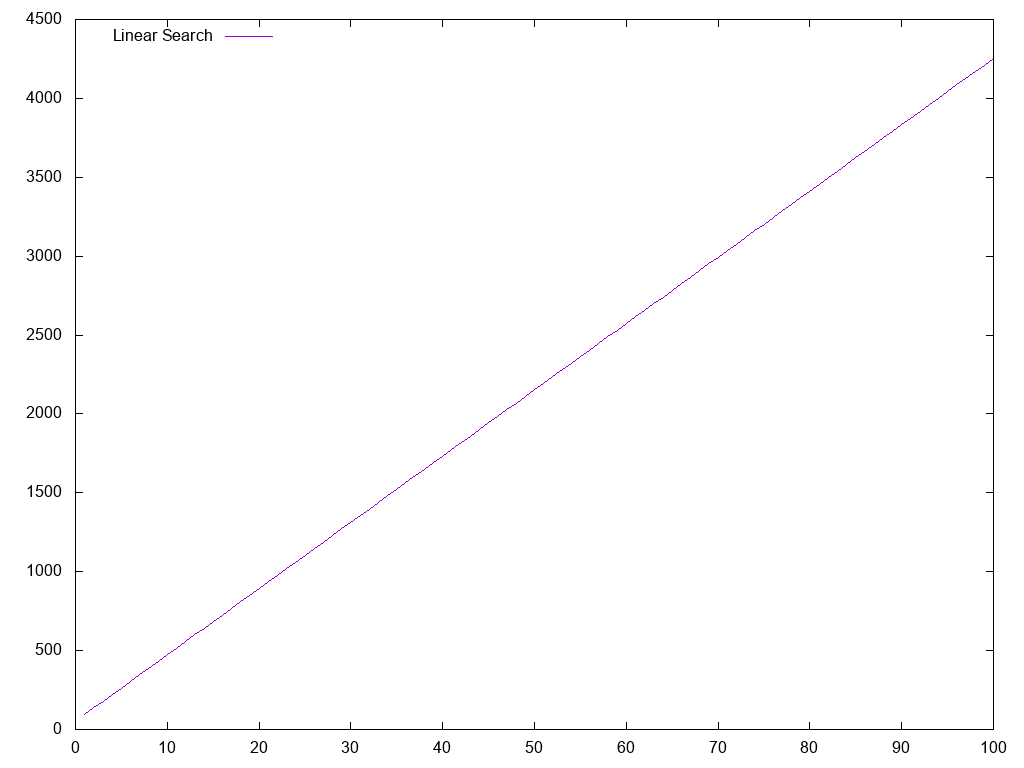
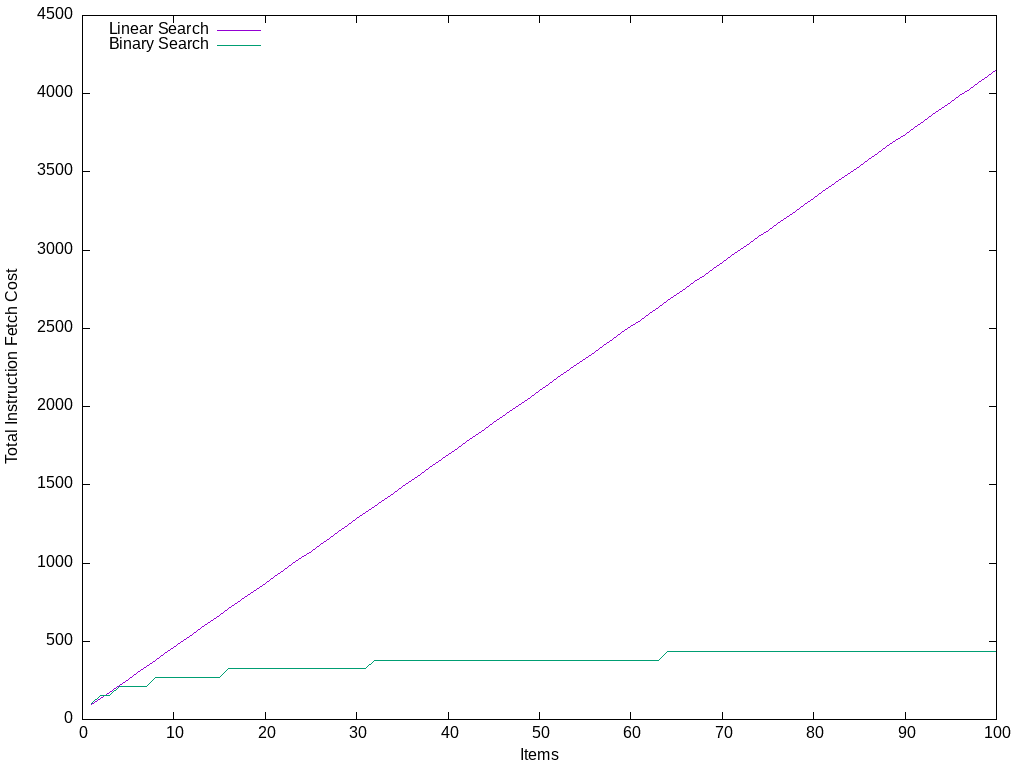
Implement binary search

diff --git a/src/test/unit/binary-search-test.c b/src/test/unit/binary-search-test.c
@@ -1,0 +1,124 @@
+#include "greatest.h"
+
+#include "binary-search.h"
+
+static const int    items[]         = { 0, 1, 2, 3, 4, 5, 6, 7, 8, 9 };
+static const size_t number_of_items = 10;
+static const size_t item_size       = sizeof(int);
+static const int    item_to_found   = 3;
+
+ordering int_compare(const void *a, const void *b) {
+    const int *a_as_int = (const int *)a;
+    const int *b_as_int = (const int *)b;
+
+    if (*a_as_int == *b_as_int) {
+        return EQ;
+    }
+
+    if (*a_as_int > *b_as_int) {
+        return GT;
+    }
+
+    return LT;
+}
+
+TEST binary_search__if_compare_is_null__returns_error(void) {
+    size_t index_of_found_item;
+
+    status status = binary_search(NULL, items, number_of_items, 0, &item_to_found, &index_of_found_item);
+
+    ASSERT_EQ(COMPARE_IS_NULL, status);
+    PASS();
+}
+
+TEST binary_search__if_items_is_null__returns_error(void) {
+    size_t index_of_found_item;
+
+    status status = binary_search(&int_compare, NULL, number_of_items, item_size, &item_to_found, &index_of_found_item);
+
+    ASSERT_EQ(ITEM_IS_NULL, status);
+    PASS();
+}
+
+TEST binary_search__if_item_size_is_zero__returns_error(void) {
+    size_t index_of_found_item;
+
+    status status = binary_search(&int_compare, items, number_of_items, 0, &item_to_found, &index_of_found_item);
+
+    ASSERT_EQ(ITEM_SIZE_IS_INVALID, status);
+    PASS();
+}
+
+TEST binary_search__if_item_to_found_is_null__returns_error(void) {
+    size_t index_of_found_item;
+
+    status status = binary_search(&int_compare, items, number_of_items, item_size, NULL, &index_of_found_item);
+
+    ASSERT_EQ(ITEM_TO_FOUND_IS_NULL, status);
+    PASS();
+}
+
+TEST binary_search__if_index_of_found_item_is_null__returns_error(void) {
+    int items[] = { 0, 1, 2, 3, 4, 5, 6, 7, 8, 9};
+    size_t number_of_items = 10;
+    size_t item_size = sizeof(int);
+    int item_to_found = 3;
+
+    status status = binary_search(&int_compare, items, number_of_items, item_size, &item_to_found, NULL);
+
+    ASSERT_EQ(INDEX_OF_FOUND_ITEM_IS_NULL, status);
+    PASS();
+}
+
+TEST binary_search__if_number_of_items_is_zero__returns_error(void) {
+    size_t index_of_found_item;
+
+    status status = binary_search(&int_compare, items, 0, item_size, &item_to_found, &index_of_found_item);
+
+    ASSERT_EQ(ITEM_NOT_FOUND, status);
+    PASS();
+}
+
+TEST binary_search__if_item_found__returns_index_of_found_item(void) {
+    for (int i = 0; i < number_of_items; i++) {
+        size_t index_of_found_item;
+
+        status status = binary_search(&int_compare, items, number_of_items, item_size, &items[i], &index_of_found_item);
+
+        ASSERT_EQ(SUCCESS, status);
+        ASSERT_EQ(i, index_of_found_item);
+    }
+
+    PASS();
+}
+
+TEST binary_search__if_item_not_found__returns_error(void) {
+    int item_to_found = -1;
+    size_t index_of_found_item;
+
+    status status = binary_search(&int_compare, items, number_of_items, item_size, &item_to_found, &index_of_found_item);
+
+    ASSERT_EQ(ITEM_NOT_FOUND, status);
+    PASS();
+}
+
+SUITE(binary_search_suite) {
+    RUN_TEST(binary_search__if_compare_is_null__returns_error);
+    RUN_TEST(binary_search__if_items_is_null__returns_error);
+    RUN_TEST(binary_search__if_item_size_is_zero__returns_error);
+    RUN_TEST(binary_search__if_item_to_found_is_null__returns_error);
+    RUN_TEST(binary_search__if_index_of_found_item_is_null__returns_error);
+    RUN_TEST(binary_search__if_number_of_items_is_zero__returns_error);
+    RUN_TEST(binary_search__if_item_found__returns_index_of_found_item);
+    RUN_TEST(binary_search__if_item_not_found__returns_error);
+}
+
+GREATEST_MAIN_DEFS();
+
+int main(int argc, char **argv) {
+    GREATEST_MAIN_BEGIN();
+
+    RUN_SUITE(binary_search_suite);
+
+    GREATEST_MAIN_END();
+}

diff --git a/src/main/binary-search.c b/src/main/binary-search.c
@@ -1,0 +1,66 @@
+#include "binary-search.h"
+
+#include <stddef.h>
+#include <stdint.h>
+#include <stdbool.h>
+
+#include <stdio.h>
+
+status binary_search(const ordering_compare compare, const void *items, const size_t number_of_items, const size_t item_size, const void *item_to_found, size_t *index_of_found_item) {
+    if (compare == NULL) {
+        return COMPARE_IS_NULL;
+    }
+
+    if (items == NULL) {
+        return ITEM_IS_NULL;
+    }
+
+    if (item_size == 0) {
+        return ITEM_SIZE_IS_INVALID;
+    }
+
+    if (item_to_found == NULL) {
+        return ITEM_TO_FOUND_IS_NULL;
+    }
+
+    if (index_of_found_item == NULL) {
+        return INDEX_OF_FOUND_ITEM_IS_NULL;
+    }
+
+    if (number_of_items == 0) {
+        return ITEM_NOT_FOUND;
+    }
+
+    const uint8_t *items_as_bytes = (const uint8_t *)items;
+
+    size_t index_of_first_item = 0;
+    size_t index_of_last_item  = number_of_items - 1;
+
+    while (true) {
+        const size_t index_of_middle_item = index_of_first_item + ((index_of_last_item - index_of_first_item) / 2);
+
+        const void *middle_item = items_as_bytes + item_size * index_of_middle_item;
+
+        const ordering ordering = compare(middle_item, item_to_found);
+
+        if (ordering == EQ) {
+            *index_of_found_item = index_of_middle_item;
+
+            return SUCCESS;
+        }
+
+        if (index_of_first_item == index_of_last_item) {
+            break;
+        }
+
+        if (ordering == GT) {
+            index_of_last_item  = index_of_middle_item - 1;
+        }
+
+        if (ordering == LT) {
+            index_of_first_item = index_of_middle_item + 1;
+        }
+    }
+
+    return ITEM_NOT_FOUND;
+}

diff --git a/src/test/perf/binary-search-test.c b/src/test/perf/binary-search-test.c
@@ -1,0 +1,43 @@
+#include <stdlib.h>
+#include <stdio.h>
+#include <valgrind/callgrind.h>
+
+#include "binary-search.h"
+
+ordering long_int_compare(const void *a, const void *b) {
+    const long int *a_as_long_int = (const long int *)a;
+    const long int *b_as_long_int = (const long int *)b;
+
+    if (*a_as_long_int == *b_as_long_int) {
+        return EQ;
+    }
+
+    if (*a_as_long_int > *b_as_long_int) {
+        return GT;
+    }
+
+    return LT;
+}
+
+int main(int argc, char **argv) {
+    long int number_of_items = strtol(argv[1], NULL, 10);
+    size_t item_size = sizeof(long int);
+    long int *items = malloc(item_size * number_of_items);
+
+    for (long int i = 0; i < number_of_items; i++) {
+        items[i] = i;
+    }
+
+    long int item_to_found = number_of_items - 1;
+    size_t index_of_found_item;
+
+    CALLGRIND_START_INSTRUMENTATION;
+    CALLGRIND_TOGGLE_COLLECT;
+
+    status status = binary_search(&long_int_compare, items, number_of_items, item_size, &item_to_found, &index_of_found_item);
+
+    CALLGRIND_TOGGLE_COLLECT;
+    CALLGRIND_STOP_INSTRUMENTATION;
+
+    free(items);
+}

diff --git a/src/main/binary-search.h b/src/main/binary-search.h
@@ -1,0 +1,19 @@
+#ifndef _BINARY_SEARCH_
+#define _BINARY_SEARCH_
+
+#include <stdlib.h>
+
+#include "ordering.h"
+#include "status.h"
+
+#define COMPARE_IS_NULL             (ERROR | 0x00000001)
+#define ITEM_IS_NULL                (ERROR | 0x00000002)
+#define NUMBER_OF_ITEMS_IS_NEGATIVE (ERROR | 0x00000003)
+#define ITEM_SIZE_IS_INVALID        (ERROR | 0x00000004)
+#define ITEM_TO_FOUND_IS_NULL       (ERROR | 0x00000005)
+#define INDEX_OF_FOUND_ITEM_IS_NULL (ERROR | 0x00000006)
+#define ITEM_NOT_FOUND              (ERROR | 0x00000007)
+
+status binary_search(const ordering_compare compare, const void *items, const size_t number_of_items, const size_t item_size, const void *item_to_found, size_t *index_of_found_item);
+
+#endif // _BINARY_SEARCH_

diff --git a/README.md b/README.md
@@ -1,0 +1,20 @@
+<p align="center">
+    <img src="resource/al-khwarizmi.png" alt="al-Khwarizmi" width= "256" />
+</p>
+
+# al-Khwarizmi
+
+The project's name is a tribute to [Muḥammad ibn Mūsā al-Khwārizmī](https://en.wikipedia.org/wiki/Muhammad_ibn_Musa_al-Khwarizmi), whose name gave rise to the word algorithm.
+Is the code worthy of a tribute? I will let you judge.
+
+This project is an implementation, in C, of the most basic algorithms.
+
+# Costs
+
+<p align="center">
+    <img src="resource/search.png" alt="Search Chart" width="800" />
+</p>
+
+# Credits
+
+By Unknown Author - http://www.muslimheritage.com/topics/default.cfm?ArticleID=631, [1], Public Domain, https://commons.wikimedia.org/w/index.php?curid=2652443
